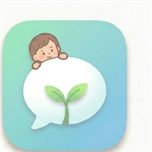
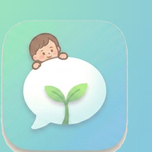
fix: 앱 아이콘 흰색 테두리 완전 제거 — 그라데이션 풀블리드
BFS flood-fill로 아이콘 외곽 흰색(near-white) 픽셀을 실제 배경
그라데이션(C_TL=#9DE5C0, C_TR=#8DCED7, C_BL=#92D4D2, C_BR=#87C9DF)으로
대체. 말풍선 내부 흰색은 코너에서 BFS로 도달 불가하므로 보존됨.

변경 파일: icon-512.png/maskable, icon-192.png/maskable,
           icon-180.png, icon-167.png, icon-152.png, icon-1024.png

diff --git a/sw.js b/sw.js
@@ -1,4 +1,4 @@
-var CACHE_NAME = "madi-v5-20260601-1857";
+var CACHE_NAME = "madi-v5-20260601-1936";
 // 외부 API · 인증 응답은 캐시하지 않는다 (민감 응답 보호)
 var SKIP_HOSTS = ["api.anthropic.com","googleapis.com"];
 // 경로 기반 차단 — Supabase Edge Function 및 REST/Storage/Auth 응답
